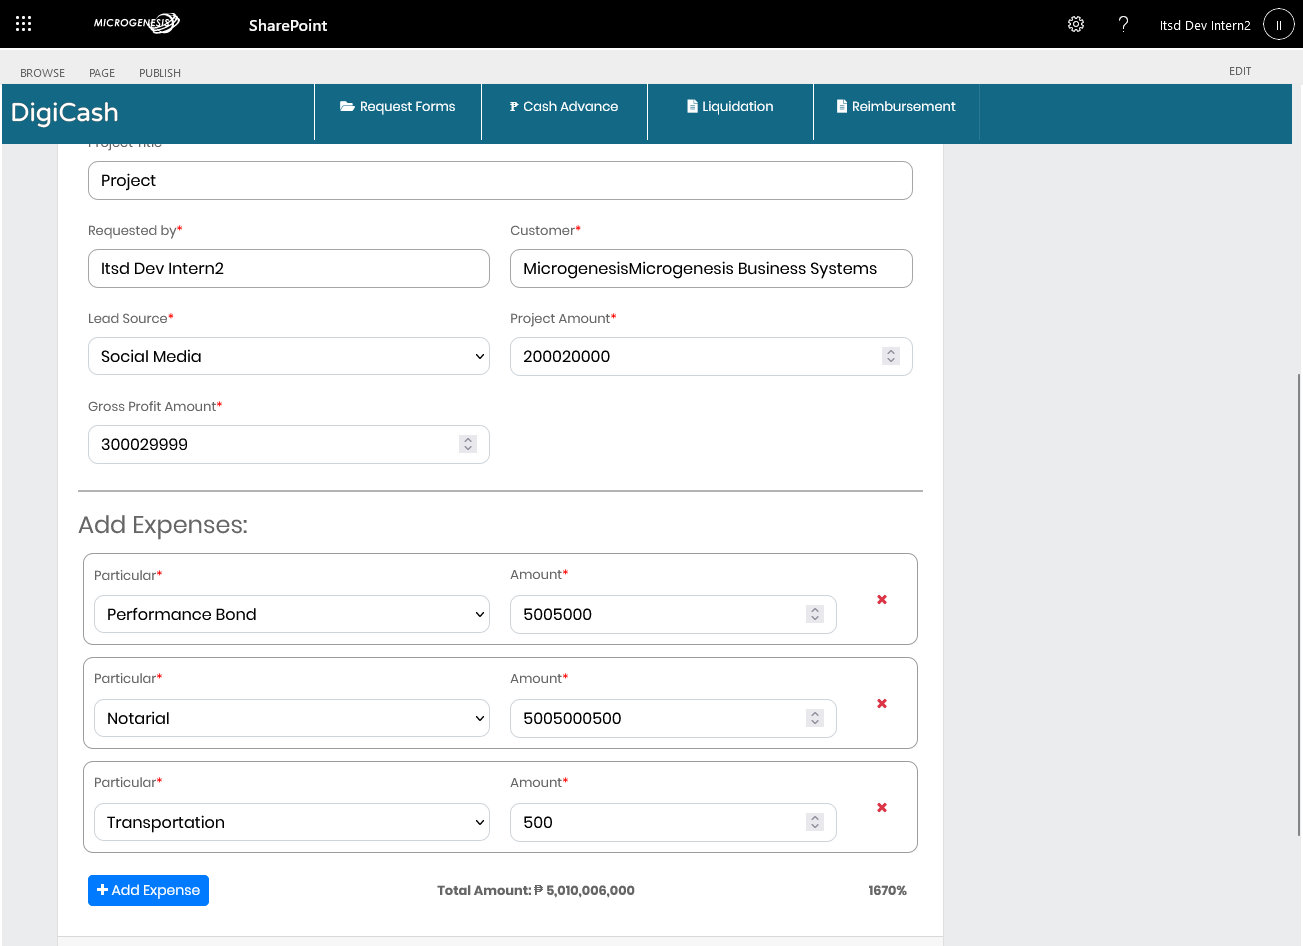
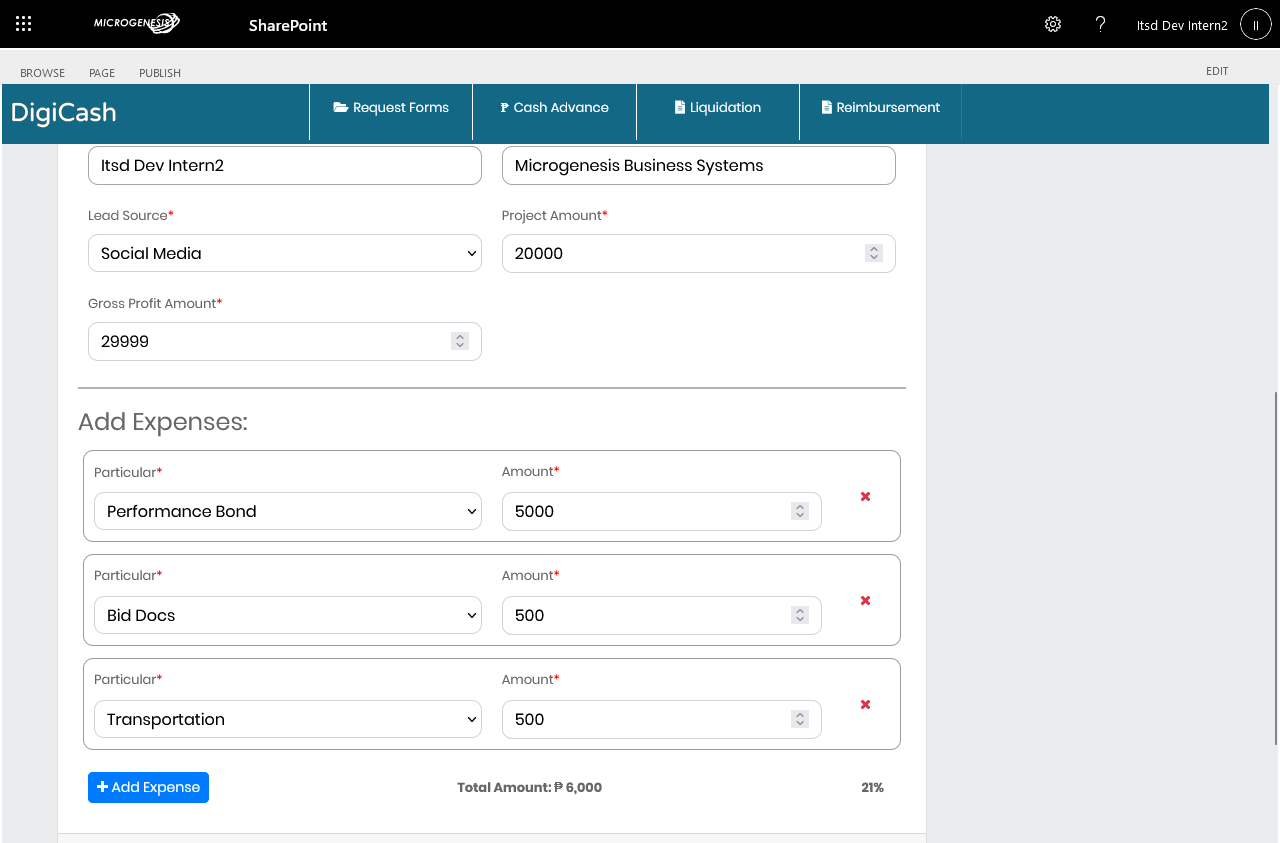
Test Hover

diff --git a/test-scenarios/test-digicash-request-login.js b/test-scenarios/test-digicash-request-login.js
@@ -1,5 +1,6 @@
 // Import necessary modules
 const { By, until } = require('selenium-webdriver');
+const assert = require('assert');
 const {
     createTestCase,
     determineStatus,
@@ -60,7 +61,18 @@ async function testDigicashRequest(driver, TEST_CASE_FILE_PATH) {
 
             // Navigate to the edit page
             console.log("Navigating to the edit page...");
-            await driver.get("https://mgenesis.sharepoint.com/sites/DigiCash/SitePages/FormType.aspx?formType=IBERF2024000005");
+
+             // Wait until the #prj5 tbody is present
+            const tbodyElement = await driver.wait(until.elementLocated(By.css('#prj5')), 5000);
+
+            // Find the anchor tag within the #prj5 tbody
+            const anchorTag = await tbodyElement.findElement(By.css('a'));
+
+            // Retrieve the value of the href attribute
+            const link = await anchorTag.getAttribute("href");
+
+            // Open the retrieved link
+            await driver.get(link);
 
             console.log("Waiting for the edit page to load completely...");
             // Wait until the page is loaded completely
@@ -75,21 +87,28 @@ async function testDigicashRequest(driver, TEST_CASE_FILE_PATH) {
 
             // Define an array of objects containing element identifiers and actions
             const elements = [
+                { selectorType: "id", identifier: "prjName", action: ["clear"] },
                 { selectorType: "id", identifier: "prjName", action: ["click", "sendKeys", "Project Title Edited"] },
                 { selectorType: "id", identifier: "needDate", action: ["click", "sendKeys", "2024-02-14"] },
                 { selectorType: "id", identifier: "prebidDate", action: ["click", "sendKeys", "2024-02-16"] },
                 { selectorType: "id", identifier: "bidDate", action: ["click", "sendKeys", "2024-02-20"] },
                 { selectorType: "id", identifier: "rqstr", action: ["click"] },
+                { selectorType: "id", identifier: "client", action: ["clear"] },
                 { selectorType: "id", identifier: "client", action: ["click", "sendKeys", "Microgenesis Business Systems"] },
                 { selectorType: "id", identifier: "select", action: ["click", "sendKeys", "Social Media"] },
+                { selectorType: "id", identifier: "prjAmt", action: ["clear"] },
                 { selectorType: "id", identifier: "prjAmt", action: ["click", "sendKeys", "20000"] },
-                { selectorType: "id", identifier: "gpa", action: ["click", "sendKeys", "29999", "29998"] },
-                { selectorType: "id", identifier: "bdgtAmt2", action: ["click", "sendKeys", "5000"] },
-                { selectorType: "id", identifier: "bdgtAmt3", action: ["click", "sendKeys", "5000"] },
+                { selectorType: "id", identifier: "gpa", action: ["clear"] },
+                { selectorType: "id", identifier: "gpa", action: ["click", "sendKeys", "29999"] },
+                { selectorType: "id", identifier: "bdgtAmt1", action: ["clear"] },
                 { selectorType: "id", identifier: "bdgtAmt1", action: ["click", "sendKeys", "10000"] },
+                { selectorType: "id", identifier: "bdgtAmt2", action: ["clear"] },
+                { selectorType: "id", identifier: "bdgtAmt2", action: ["click", "sendKeys", "5000"] },
+                { selectorType: "id", identifier: "bdgtAmt3", action: ["clear"] },
                 { selectorType: "id", identifier: "bdgtAmt3", action: ["click", "sendKeys", "500"] },
                 { selectorType: "id", identifier: "addRowBtn", action: ["click"] },
                 { selectorType: "id", identifier: "partSelect4", action: ["click", "sendKeys", "Transportation"] },
+                { selectorType: "id", identifier: "bdgtAmt4", action: ["clear"] },
                 { selectorType: "id", identifier: "bdgtAmt4", action: ["click", "sendKeys", "500"] },
                 { selectorType: "css", identifier: "#exp1 .fa", action: ["click"] },
                 { selectorType: "css", identifier: ".col-md-9", action: ["click"] },
@@ -133,7 +152,11 @@ async function testDigicashRequest(driver, TEST_CASE_FILE_PATH) {
             screenshotFilePath = await captureAndSaveScreenshot(driver, testCaseId);
 
             // Cancel the form submission (because of error when clicking save draft/submit button)
-            await driver.findElement(By.id("cancelBtn")).click()
+            // await driver.findElement(By.id("cancelBtn")).click()
+            await driver.findElement(By.id("saveBtn")).click()
+            assert(await driver.switchTo().alert().getText() == "Are you sure you want to save as draft?")
+            await driver.switchTo().alert().accept()
+            assert(await driver.switchTo().alert().getText() == "The form has been successfully Saved")
             
             // Set values for actualResults and status
             actualResults = 'Edited iBERF successfully';
@@ -172,15 +195,11 @@ async function testDigicashRequest(driver, TEST_CASE_FILE_PATH) {
                 { action: 'click', element: 'id=prjAmt', value: 'Project Amount Textfield' },
                 { action: 'input', element: 'id=prjAmt', value: '20000' },
                 { action: 'click', element: 'id=gpa', value: 'GPA Textfield' },
-                { action: 'input', element: 'id=gpa', value: '29999' },
-                { action: 'click', element: 'id=gpa', value: 'GPA Textfield' },
-                { action: 'input', element: 'id=gpa', value: '29998' },
-                { action: 'click', element: 'id=bdgtAmt2', value: 'Budget Amount 2 Textfield' },
-                { action: 'input', element: 'id=bdgtAmt2', value: '5000' },
-                { action: 'click', element: 'id=bdgtAmt3', value: 'Budget Amount 3 Textfield' },
-                { action: 'input', element: 'id=bdgtAmt3', value: '5000' },
+                { action: 'input', element: 'id=gpa', value: '29999' },           
                 { action: 'click', element: 'id=bdgtAmt1', value: 'Budget Amount 1 Textfield' },
                 { action: 'input', element: 'id=bdgtAmt1', value: '10000' },
+                { action: 'click', element: 'id=bdgtAmt2', value: 'Budget Amount 2 Textfield' },
+                { action: 'input', element: 'id=bdgtAmt2', value: '5000' },
                 { action: 'click', element: 'id=bdgtAmt3', value: 'Budget Amount 3 Textfield' },
                 { action: 'input', element: 'id=bdgtAmt3', value: '500' },
                 { action: 'click', element: 'id=addRowBtn', value: 'Add Row Button' },
@@ -188,13 +207,7 @@ async function testDigicashRequest(driver, TEST_CASE_FILE_PATH) {
                 { action: 'select', element: 'id=partSelect4', value: 'Transportation' },
                 { action: 'click', element: 'id=bdgtAmt4', value: 'Budget Amount 4 Textfield' },
                 { action: 'input', element: 'id=bdgtAmt4', value: '500' },
-                { action: 'click', element: 'css=#exp1 .fa', value: 'Expand Button' },
-                { action: 'click', element: 'id=bdgtAmt2', value: 'Budget Amount 2 Textfield' },
-                { action: 'click', element: 'id=bdgtAmt3', value: 'Budget Amount 3 Textfield' },
-                { action: 'input', element: 'id=bdgtAmt3', value: '1500' },
-                { action: 'click', element: 'id=bdgtAmt4', value: 'Budget Amount 4 Textfield' },
-                { action: 'click', element: 'id=bdgtAmt4', value: 'Budget Amount 4 Textfield' },
-                { action: 'input', element: 'id=bdgtAmt4', value: '2500' },
+                { action: 'click', element: 'css=#exp1 .fa', value: 'Expand Button' },                
                 { action: 'click', element: 'css=.col-md-9', value: 'Column' },
                 { action: 'click', element: 'id=cancelBtn', value: 'Cancel Button' }                
             ],

diff --git a/test-scripts/save draft.js b/test-scripts/save draft.js
@@ -1,0 +1,44 @@
+// Generated by Selenium IDE
+const { Builder, By, Key, until } = require('selenium-webdriver')
+const assert = require('assert')
+
+describe('test', function() {
+  this.timeout(30000)
+  let driver
+  let vars
+  beforeEach(async function() {
+    driver = await new Builder().forBrowser('firefox').build()
+    vars = {}
+  })
+  afterEach(async function() {
+    await driver.quit();
+  })
+  it('test', async function() {
+    await driver.get("https://mgenesis.sharepoint.com/sites/DigiCash/SitePages/LandingPage.aspx")
+    await driver.manage().window().setRect({ width: 1936, height: 1048 })
+    await driver.findElement(By.css("#prj4 .zmdi")).click()
+    await driver.findElement(By.linkText("Edit")).click()
+    await driver.findElement(By.id("saveBtn")).click()
+    assert(await driver.switchTo().alert().getText() == "Are you sure you want to save as draft?")
+    await driver.switchTo().alert().accept()
+    assert(await driver.switchTo().alert().getText() == "The form has been successfully Saved")
+    {
+      const element = await driver.findElement(By.css(".U6Cnfo0RjXJ8UEwXhZV8mQ\\=\\="))
+      await driver.actions({ bridge: true }).moveToElement(element).perform()
+    }
+    {
+      const element = await driver.findElement(By.CSS_SELECTOR, "body")
+      await driver.actions({ bridge: true }).moveToElement(element, 0, 0).perform()
+    }
+    {
+      const element = await driver.findElement(By.css(".U6Cnfo0RjXJ8UEwXhZV8mQ\\=\\="))
+      await driver.actions({ bridge: true }).moveToElement(element).perform()
+    }
+    await driver.findElement(By.css("#prj4 .dropdown > .btn")).click()
+    await driver.findElement(By.linkText("Edit")).click()
+    await driver.findElement(By.id("saveBtn")).click()
+    assert(await driver.switchTo().alert().getText() == "Are you sure you want to save as draft?")
+    await driver.switchTo().alert().accept()
+    assert(await driver.switchTo().alert().getText() == "The form has been successfully Saved")
+  })
+})
